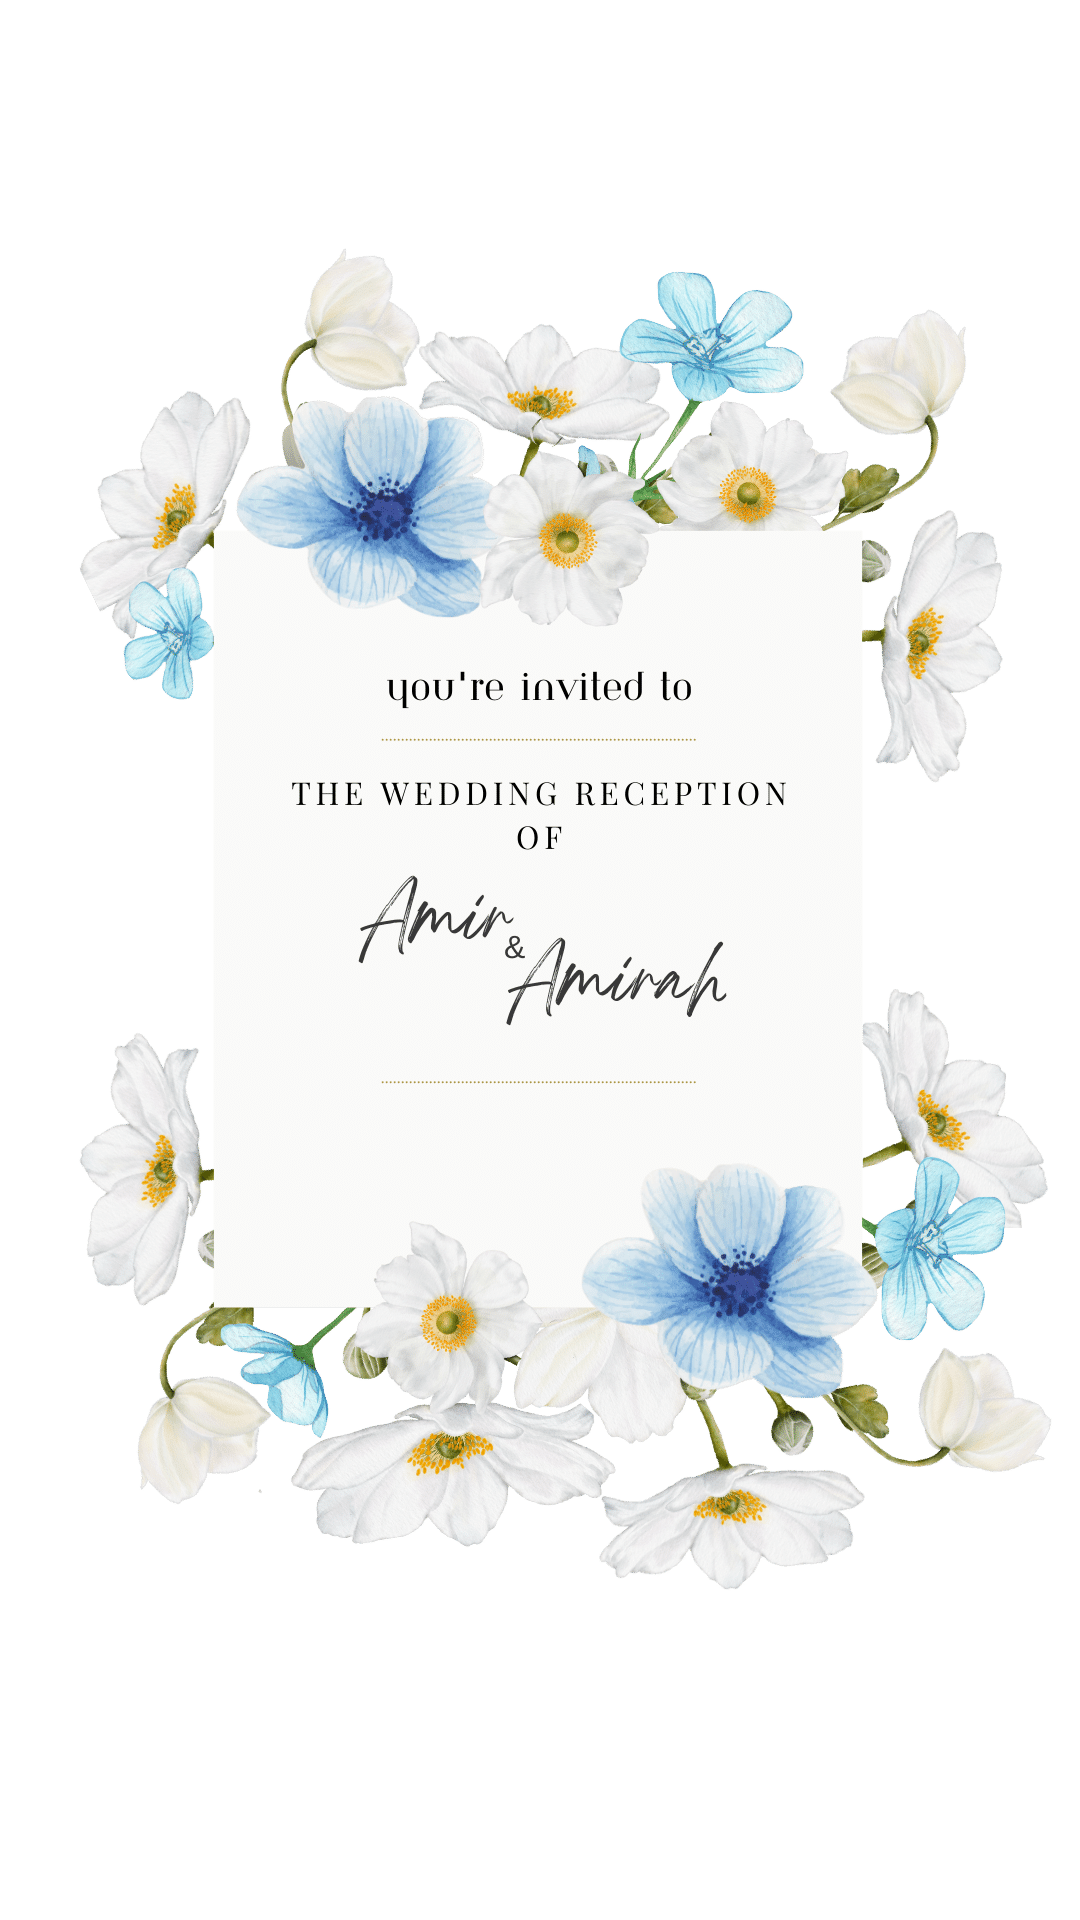
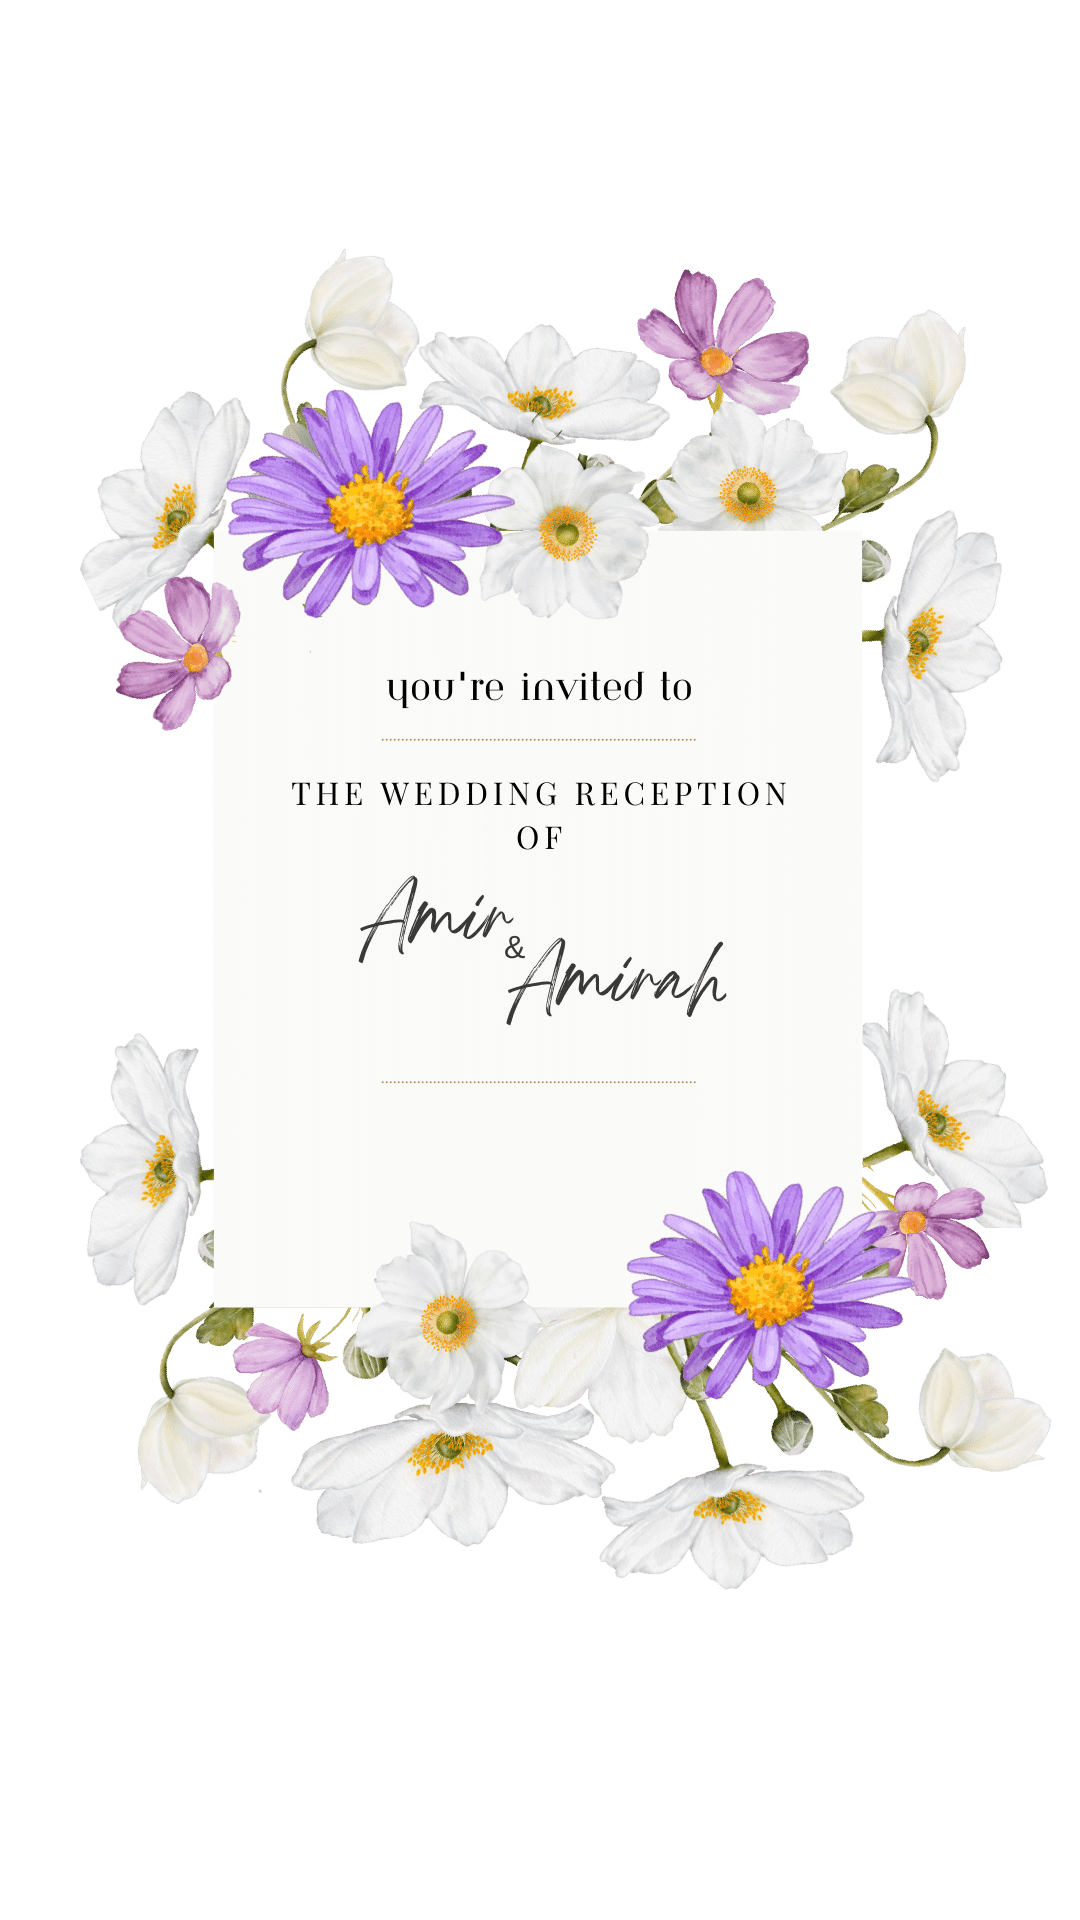
update design

diff --git a/main-XSBXWIKA.js b/main-XSBXWIKA.js
@@ -26,7 +26,7 @@ Event time:
 Arrival of the Bride and Groom:
 12:30 pm
 
-#AmirFoundAMIRAcle`,eventLocation:"De Cassa Mahligai Wedding & Event, 3rd Floor, Wisma SBC, Batu Caves, Selangor",eventURL:gd,eventCoordinate:Cn,maxAttendees:5,accountNumber:"1625 0812 9415",accountBankName:"Maybank Islamic Berhad"};var _d=(()=>{let t=class t{constructor(){this.targetDate=new Date(X.eventStartDateTime),this.countdown=""}ngOnInit(){this.getCountdown()}ngOnDestroy(){clearInterval(this.countdownInterval)}getCountdown(){this.updateCountdown(),this.countdownInterval=setInterval(()=>{this.updateCountdown()},1e3)}updateCountdown(){let e=new Date().getTime(),n=this.targetDate.getTime()-e;if(n<0){clearInterval(this.countdownInterval),this.countdown="Expired";return}let s=Math.floor(n/(1e3*60*60*24)),o=Math.floor(n%(1e3*60*60*24)/(1e3*60*60)),a=Math.floor(n%(1e3*60*60)/(1e3*60)),c=Math.floor(n%(1e3*60)/1e3);this.countdown=`${s} days ${o} hours ${a} minutes ${c} seconds`}};t.\u0275fac=function(n){return new(n||t)},t.\u0275cmp=V({type:t,selectors:[["app-date-countdown"]],standalone:!0,features:[B],decls:3,vars:1,consts:[[1,"countdown-div"],[1,"countdown"]],template:function(n,s){n&1&&(p(0,"div",0)(1,"span",1),v(2),m()()),n&2&&(T(2),sr(s.countdown))},styles:[".countdown-div[_ngcontent-%COMP%]{max-width:350px;margin:0 auto;justify-content:center;text-align:center}.countdown[_ngcontent-%COMP%]{padding:10px 20px;border-radius:50px;background-color:#87ceeb;display:inline-block}"]});let i=t;return i})();var bd=(()=>{let t=class t{constructor(){this.eventTitle=X.eventName,this.startDate=X.eventStartDateTime,this.endDate=X.eventEndDateTime,this.eventDescription=X.eventDescription,this.eventLocation=X.eventLocation}generateGoogleCalendarLink(){let e=new Date(this.startDate).getTime()+288e5,n=new Date(this.endDate).getTime()+8*60*60*1e3;return`https://calendar.google.com/calendar/render?action=TEMPLATE&text=${encodeURIComponent(this.eventTitle)}&dates=${new Date(e).toISOString().replace(/[-:]/g,"").replace(/\.\d+Z/,"")}/${new Date(n).toISOString().replace(/[-:]/g,"").replace(/\.\d+Z/,"")}&details=${encodeURIComponent(this.eventDescription)}&location=${encodeURIComponent(this.eventLocation)}`}};t.\u0275fac=function(n){return new(n||t)},t.\u0275cmp=V({type:t,selectors:[["app-google-event-link"]],standalone:!0,features:[B],decls:5,vars:1,consts:[[1,"g-cal"],["target","_blank",3,"href"],["src","assets/icons/cal-google.svg","alt","Calendar Icon","width","40","height","40"]],template:function(n,s){n&1&&(p(0,"div",0)(1,"a",1),I(2,"img",2),m(),p(3,"small"),v(4,"Google Calendar"),m()()),n&2&&(T(),P("href",s.generateGoogleCalendarLink(),Me))},styles:[".g-cal[_ngcontent-%COMP%]{display:flex;justify-content:center;align-items:center;flex-direction:column}"]});let i=t;return i})();var wd=(()=>{let t=class t{constructor(){this.eventTitle=X.eventName,this.startDate=X.eventStartDateTime,this.endDate=X.eventEndDateTime,this.eventDescription=X.iCalEventDescription,this.eventLocation=X.eventLocation,this.eventURL=X.eventURL}generateICalContent(){let e=this.startDate.replace(/[-:]/g,""),n=this.endDate.replace(/[-:]/g,""),s=this.eventDescription.replace(/\n/g,"\\n"),o=this.eventLocation.replace(/, /g,"\\, ");return`BEGIN:VCALENDAR
+#AmirFoundAMIRAcle`,eventLocation:"De Cassa Mahligai Wedding & Event, 3rd Floor, Wisma SBC, Batu Caves, Selangor",eventURL:gd,eventCoordinate:Cn,maxAttendees:5,accountNumber:"1625 0812 9415",accountBankName:"Maybank Islamic Berhad"};var _d=(()=>{let t=class t{constructor(){this.targetDate=new Date(X.eventStartDateTime),this.countdown=""}ngOnInit(){this.getCountdown()}ngOnDestroy(){clearInterval(this.countdownInterval)}getCountdown(){this.updateCountdown(),this.countdownInterval=setInterval(()=>{this.updateCountdown()},1e3)}updateCountdown(){let e=new Date().getTime(),n=this.targetDate.getTime()-e;if(n<0){clearInterval(this.countdownInterval),this.countdown="Expired";return}let s=Math.floor(n/(1e3*60*60*24)),o=Math.floor(n%(1e3*60*60*24)/(1e3*60*60)),a=Math.floor(n%(1e3*60*60)/(1e3*60)),c=Math.floor(n%(1e3*60)/1e3);this.countdown=`${s} days ${o} hours ${a} minutes ${c} seconds`}};t.\u0275fac=function(n){return new(n||t)},t.\u0275cmp=V({type:t,selectors:[["app-date-countdown"]],standalone:!0,features:[B],decls:3,vars:1,consts:[[1,"countdown-div"],[1,"countdown"]],template:function(n,s){n&1&&(p(0,"div",0)(1,"span",1),v(2),m()()),n&2&&(T(2),sr(s.countdown))},styles:[".countdown-div[_ngcontent-%COMP%]{max-width:350px;margin:0 auto;justify-content:center;text-align:center}.countdown[_ngcontent-%COMP%]{padding:10px 20px;border-radius:50px;background-color:#aa72df;display:inline-block;color:#fff}"]});let i=t;return i})();var bd=(()=>{let t=class t{constructor(){this.eventTitle=X.eventName,this.startDate=X.eventStartDateTime,this.endDate=X.eventEndDateTime,this.eventDescription=X.eventDescription,this.eventLocation=X.eventLocation}generateGoogleCalendarLink(){let e=new Date(this.startDate).getTime()+288e5,n=new Date(this.endDate).getTime()+8*60*60*1e3;return`https://calendar.google.com/calendar/render?action=TEMPLATE&text=${encodeURIComponent(this.eventTitle)}&dates=${new Date(e).toISOString().replace(/[-:]/g,"").replace(/\.\d+Z/,"")}/${new Date(n).toISOString().replace(/[-:]/g,"").replace(/\.\d+Z/,"")}&details=${encodeURIComponent(this.eventDescription)}&location=${encodeURIComponent(this.eventLocation)}`}};t.\u0275fac=function(n){return new(n||t)},t.\u0275cmp=V({type:t,selectors:[["app-google-event-link"]],standalone:!0,features:[B],decls:5,vars:1,consts:[[1,"g-cal"],["target","_blank",3,"href"],["src","assets/icons/cal-google.svg","alt","Calendar Icon","width","40","height","40"]],template:function(n,s){n&1&&(p(0,"div",0)(1,"a",1),I(2,"img",2),m(),p(3,"small"),v(4,"Google Calendar"),m()()),n&2&&(T(),P("href",s.generateGoogleCalendarLink(),Me))},styles:[".g-cal[_ngcontent-%COMP%]{display:flex;justify-content:center;align-items:center;flex-direction:column}"]});let i=t;return i})();var wd=(()=>{let t=class t{constructor(){this.eventTitle=X.eventName,this.startDate=X.eventStartDateTime,this.endDate=X.eventEndDateTime,this.eventDescription=X.iCalEventDescription,this.eventLocation=X.eventLocation,this.eventURL=X.eventURL}generateICalContent(){let e=this.startDate.replace(/[-:]/g,""),n=this.endDate.replace(/[-:]/g,""),s=this.eventDescription.replace(/\n/g,"\\n"),o=this.eventLocation.replace(/, /g,"\\, ");return`BEGIN:VCALENDAR
 VERSION:2.0
 BEGIN:VEVENT
 BEGIN:VTIMEZONE

diff --git a/index.html b/index.html
@@ -13,5 +13,5 @@
 </style><link rel="stylesheet" href="styles-AP4DUATS.css" media="print" onload="this.media='all'"><noscript><link rel="stylesheet" href="styles-AP4DUATS.css"></noscript><link rel="modulepreload" href="chunk-5HSTMA2W.js"></head>
   <body class="mat-typography">
     <app-root></app-root>
-  <script src="polyfills-RT5I6R6G.js" type="module"></script><script src="scripts-EEEIPNC3.js" defer></script><script src="main-MZMDO4G2.js" type="module"></script></body>
+  <script src="polyfills-RT5I6R6G.js" type="module"></script><script src="scripts-EEEIPNC3.js" defer></script><script src="main-XSBXWIKA.js" type="module"></script></body>
 </html>
